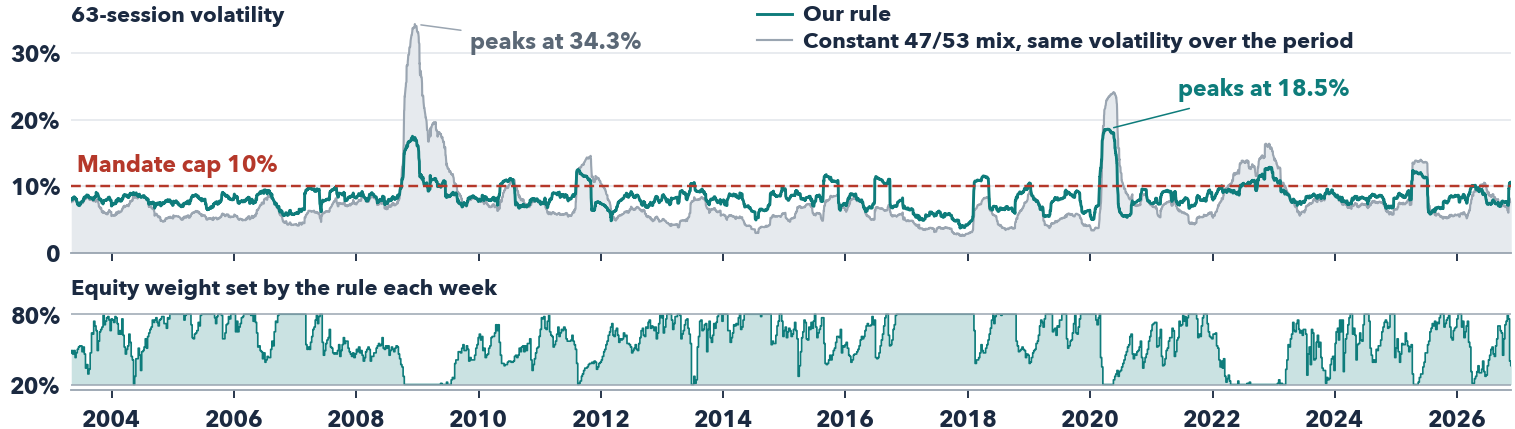
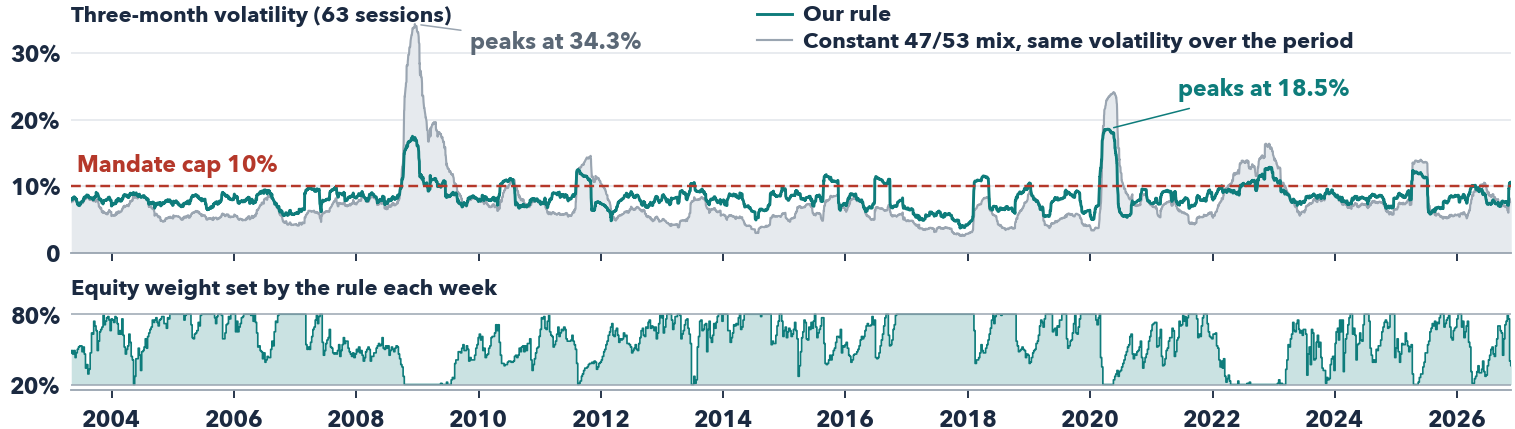
Chart: the volatility axis says 'three-month (63 sessions)', as the application file now does
Why: readers of the file are not quants; '63-session' is explained once and written as three
months everywhere else. Only the label changes: the figure is redrawn from the saved series,
the test is not run again.

Claude-Session: https://claude.ai/code/session_01LuS1gESekVazvc4VoGcyd3

Changed region(s): [[0.031, 0.0, 0.3102, 0.0606]]

diff --git a/plots.py b/plots.py
@@ -78,7 +78,7 @@ def fig_vol_cap() -> None:
     ax2.axhline(20, color=GREY, linewidth=0.5)
     ax2.axhline(80, color=GREY, linewidth=0.5)
     ax2.text(0.0, 1.1, "Equity weight set by the rule each week", transform=ax2.transAxes, fontsize=7.2, color=INK, va="bottom", ha="left")
-    ax.text(0.0, 1.0, "63-session volatility", transform=ax.transAxes, fontsize=7.2, color=INK, va="top", ha="left")
+    ax.text(0.0, 1.0, "Three-month volatility (63 sessions)", transform=ax.transAxes, fontsize=7.2, color=INK, va="top", ha="left")
     for side in ("top", "right", "left"):
         ax2.spines[side].set_visible(False)
     ax2.xaxis.set_major_locator(mdates.YearLocator(2))
